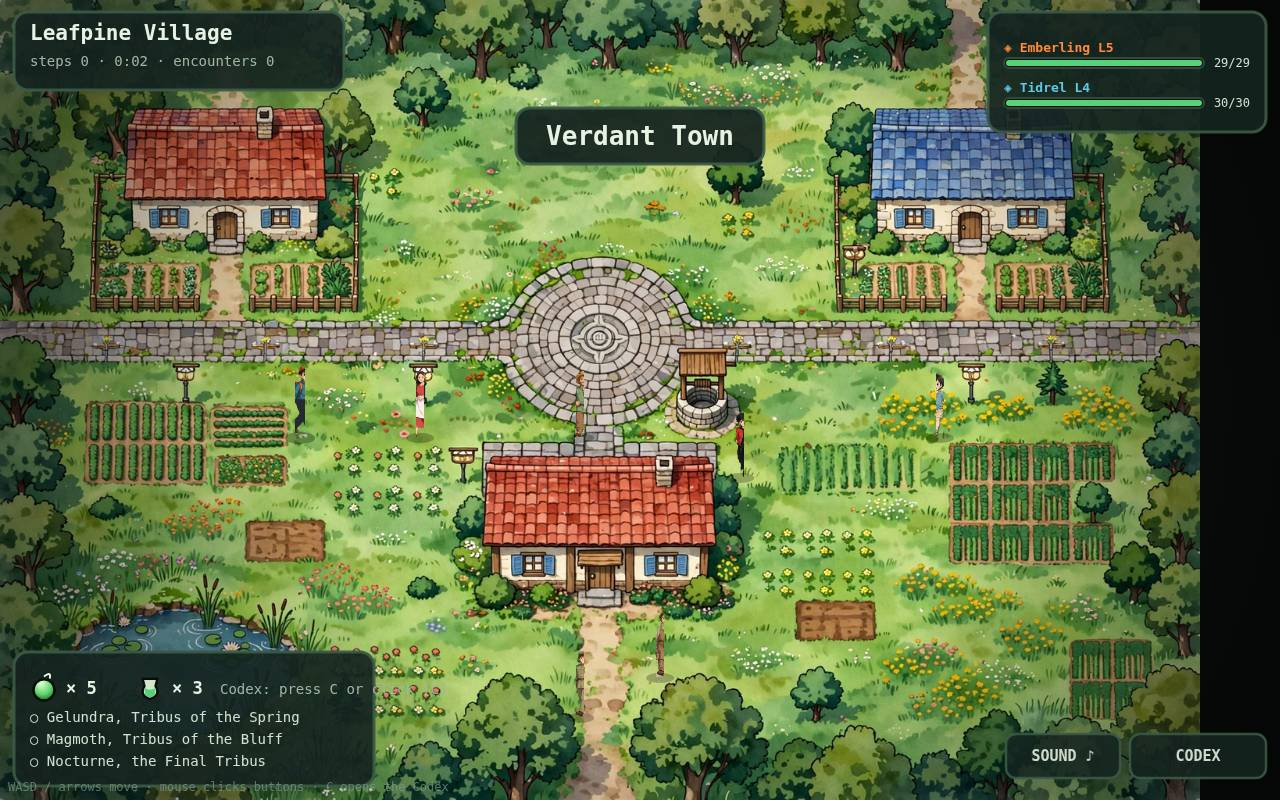
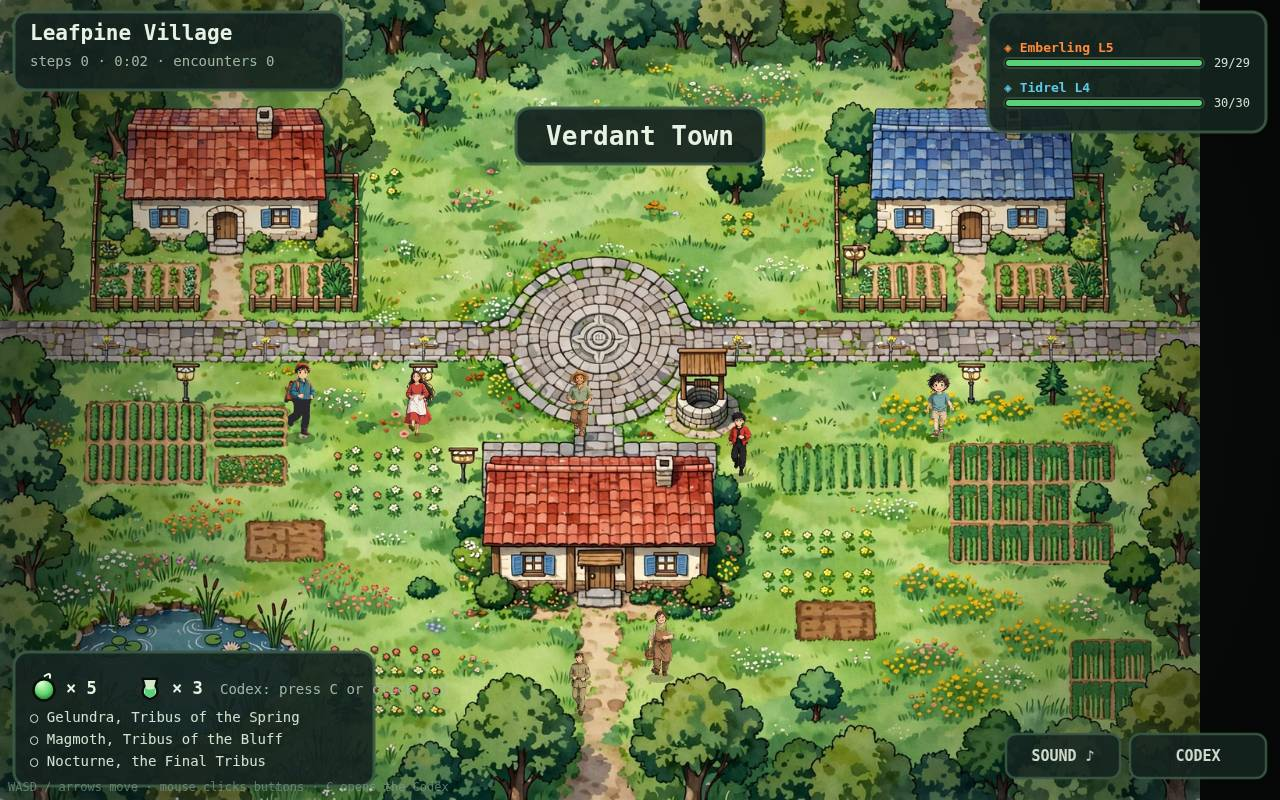
Fix half-sprite NPCs (sheet cell size from filename, sheets are 4x4 not 12x4) + crash on defeat respawn (zone 'moss' never existed; respawn in town lab)

diff --git a/game/src/world.js b/game/src/world.js
@@ -72,7 +72,9 @@ export const PLAYER_SHEET = 'player_boy_128x256.png';
 export function drawSheet(ctx, file, dir, frame, cx, groundY, height, flipX = false) {
   const img = image(file);
   if (!img || !img.naturalWidth) return false;
-  const fw = img.naturalWidth / 12, fh = img.naturalHeight / 4;
+  // cell size from filename (<w>x<h>); Muse sheets are 4x4 of 128x256 => 384x1024
+  const m = file.match(/(\d+)x(\d+)\.png/);
+  const fw = m ? +m[1] : img.naturalWidth / 12, fh = m ? +m[2] : img.naturalHeight / 4;
   const w = height * (fw / fh);
   ctx.save();
   ctx.translate(cx, groundY);

diff --git a/game/src/main.js b/game/src/main.js
@@ -351,8 +351,8 @@ function settleMission(b, wasBoss, mission) {
 function worldMessage(text) { state.world.setNotice(text); }
 
 function respawnInMeadow() {
-  state.world.zoneId = 'moss';
-  state.world.px = 3; state.world.py = 13;
+  state.world.zoneId = 'town';
+  state.world.px = 7; state.world.py = 18;
   state.team.healPartyHalf();
   state.mode = 'field';
   state.world.setNotice('You wake in Moss Meadow, humbled');

diff --git a/test-gameplay.py b/test-gameplay.py
@@ -25,7 +25,7 @@ try:
         page = browser.new_page(viewport={"width": 1280, "height": 800})
         def _pageerr(e):
             errors.append(str(e))
-            print("PAGEERR:", (e.stack or str(e))[:400])
+            print("PAGEERR STACK:", (e.stack or str(e))[:1500])
         page.on("pageerror", _pageerr)
         page.on("console", lambda m: (errors.append(m.text), print("CONSOLEERR:", m.text[:200], getattr(m,"location",None))) if m.type == "error" else None)
 
